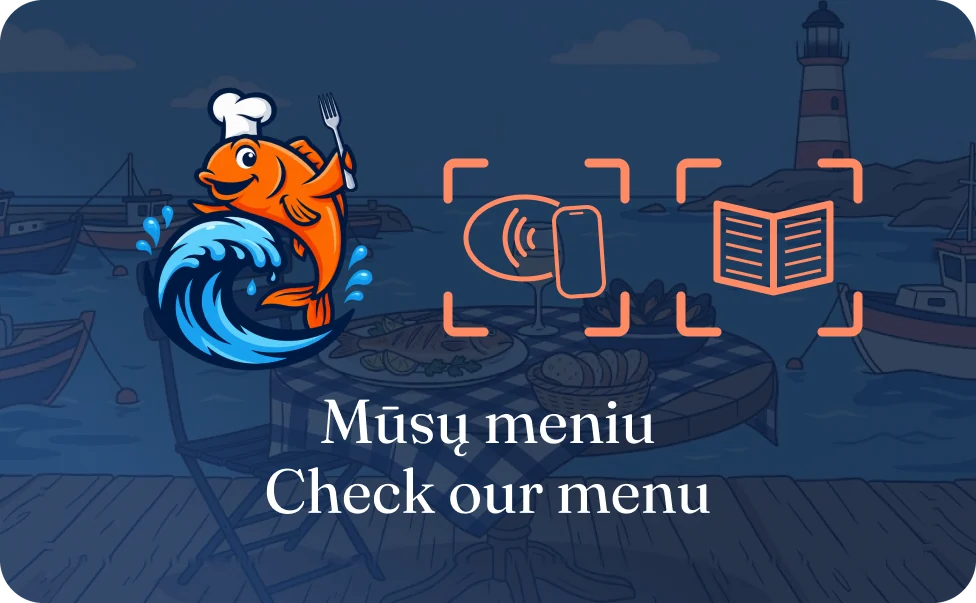
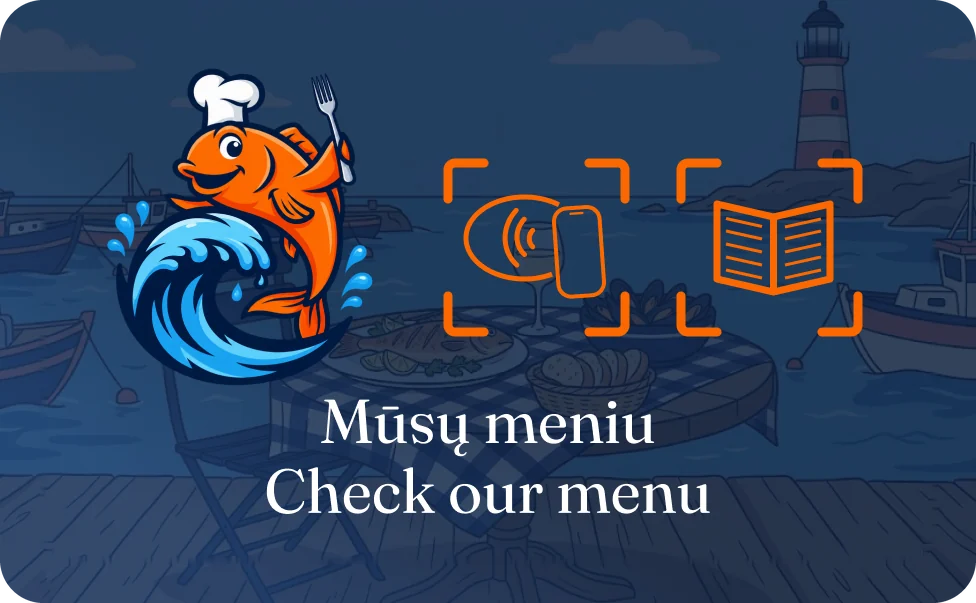
Retoques en los diseños de ejemplo de Gintaro y Bangos

diff --git a/lt/index.html b/lt/index.html
@@ -237,7 +237,7 @@
           <figure class="nfc-card">
             <div class="nfc-card-stage">
               <div class="nfc-card-tilt">
-                <img src="../img/tarjetas/ejemplo-gintaro.webp?v=2026-10-04" alt="Pavyzdinė barberinės „Gintaro“ NFC kortelė: auksinė emblema su inkaru, skustuvu ir brangakmeniu barberinės su iliuminatoriais fone ir užrašas „Palikite mums atsiliepimą“ lietuvių ir anglų kalbomis" width="976" height="603" draggable="false" loading="lazy">
+                <img src="../img/tarjetas/ejemplo-gintaro.webp?v=2026-10-04b" alt="Pavyzdinė barberinės „Gintaro“ NFC kortelė: auksinė emblema su inkaru, skustuvu ir brangakmeniu barberinės su iliuminatoriais fone ir užrašas „Palikite mums atsiliepimą“ lietuvių ir anglų kalbomis" width="976" height="603" draggable="false" loading="lazy">
                 <span class="nfc-card-glare" aria-hidden="true"></span>
               </div>
             </div>
@@ -246,7 +246,7 @@
           <figure class="nfc-card">
             <div class="nfc-card-stage">
               <div class="nfc-card-tilt">
-                <img src="../img/tarjetas/ejemplo-rasos.webp?v=2026-10-04" alt="Pavyzdinė gėlių parduotuvės Rasos NFC kortelė: logotipas su raudona rože ir bordo raidėmis rožinės gėlių parduotuvės fone ir užrašas „Sek mus Instagram’e“ lietuvių ir anglų kalbomis" width="976" height="603" draggable="false" loading="lazy">
+                <img src="../img/tarjetas/ejemplo-rasos.webp?v=2026-10-04b" alt="Pavyzdinė gėlių parduotuvės Rasos NFC kortelė: logotipas su raudona rože ir bordo raidėmis rožinės gėlių parduotuvės fone ir užrašas „Sek mus Instagram’e“ lietuvių ir anglų kalbomis" width="976" height="603" draggable="false" loading="lazy">
                 <span class="nfc-card-glare" aria-hidden="true"></span>
               </div>
             </div>
@@ -255,7 +255,7 @@
           <figure class="nfc-card">
             <div class="nfc-card-stage">
               <div class="nfc-card-tilt">
-                <img src="../img/tarjetas/ejemplo-kopa.webp?v=2026-10-04" alt="Pavyzdinė jogos studijos Kopa NFC kortelė: medituojanti figūra po saule žalsvai mėlyno paplūdimio fone ir užrašas „Sek mus Facebook’e“ lietuvių ir anglų kalbomis" width="976" height="603" draggable="false" loading="lazy">
+                <img src="../img/tarjetas/ejemplo-kopa.webp?v=2026-10-04b" alt="Pavyzdinė jogos studijos Kopa NFC kortelė: medituojanti figūra po saule žalsvai mėlyno paplūdimio fone ir užrašas „Sek mus Facebook’e“ lietuvių ir anglų kalbomis" width="976" height="603" draggable="false" loading="lazy">
                 <span class="nfc-card-glare" aria-hidden="true"></span>
               </div>
             </div>
@@ -264,7 +264,7 @@
           <figure class="nfc-card">
             <div class="nfc-card-stage">
               <div class="nfc-card-tilt">
-                <img src="../img/tarjetas/ejemplo-bangos.webp?v=2026-10-04" alt="Pavyzdinė bistro Bangos NFC kortelė: oranžinė žuvis virėja ant bangos uosto su švyturiu fone ir užrašas „Mūsų meniu“ lietuvių ir anglų kalbomis" width="976" height="603" draggable="false" loading="lazy">
+                <img src="../img/tarjetas/ejemplo-bangos.webp?v=2026-10-04b" alt="Pavyzdinė bistro Bangos NFC kortelė: oranžinė žuvis virėja ant bangos uosto su švyturiu fone ir užrašas „Mūsų meniu“ lietuvių ir anglų kalbomis" width="976" height="603" draggable="false" loading="lazy">
                 <span class="nfc-card-glare" aria-hidden="true"></span>
               </div>
             </div>

diff --git a/index.html b/index.html
@@ -237,7 +237,7 @@
           <figure class="nfc-card">
             <div class="nfc-card-stage">
               <div class="nfc-card-tilt">
-                <img src="img/tarjetas/ejemplo-gintaro.webp?v=2026-10-04" alt="Tarjeta NFC de ejemplo de Gintaro, una barbería: emblema dorado con un ancla, una navaja y una gema sobre una barbería con ojos de buey, y el texto «Déjanos una reseña» en lituano y en inglés" width="976" height="603" draggable="false" loading="lazy">
+                <img src="img/tarjetas/ejemplo-gintaro.webp?v=2026-10-04b" alt="Tarjeta NFC de ejemplo de Gintaro, una barbería: emblema dorado con un ancla, una navaja y una gema sobre una barbería con ojos de buey, y el texto «Déjanos una reseña» en lituano y en inglés" width="976" height="603" draggable="false" loading="lazy">
                 <span class="nfc-card-glare" aria-hidden="true"></span>
               </div>
             </div>
@@ -246,7 +246,7 @@
           <figure class="nfc-card">
             <div class="nfc-card-stage">
               <div class="nfc-card-tilt">
-                <img src="img/tarjetas/ejemplo-rasos.webp?v=2026-10-04" alt="Tarjeta NFC de ejemplo de Rasos, una floristería: logo con una rosa roja y letras granate sobre una tienda de flores en tonos rosa, y el texto «Síguenos en Instagram» en lituano y en inglés" width="976" height="603" draggable="false" loading="lazy">
+                <img src="img/tarjetas/ejemplo-rasos.webp?v=2026-10-04b" alt="Tarjeta NFC de ejemplo de Rasos, una floristería: logo con una rosa roja y letras granate sobre una tienda de flores en tonos rosa, y el texto «Síguenos en Instagram» en lituano y en inglés" width="976" height="603" draggable="false" loading="lazy">
                 <span class="nfc-card-glare" aria-hidden="true"></span>
               </div>
             </div>
@@ -255,7 +255,7 @@
           <figure class="nfc-card">
             <div class="nfc-card-stage">
               <div class="nfc-card-tilt">
-                <img src="img/tarjetas/ejemplo-kopa.webp?v=2026-10-04" alt="Tarjeta NFC de ejemplo de Kopa, un estudio de yoga: figura meditando bajo un sol sobre una playa en tonos verde agua, y el texto «Síguenos en Facebook» en lituano y en inglés" width="976" height="603" draggable="false" loading="lazy">
+                <img src="img/tarjetas/ejemplo-kopa.webp?v=2026-10-04b" alt="Tarjeta NFC de ejemplo de Kopa, un estudio de yoga: figura meditando bajo un sol sobre una playa en tonos verde agua, y el texto «Síguenos en Facebook» en lituano y en inglés" width="976" height="603" draggable="false" loading="lazy">
                 <span class="nfc-card-glare" aria-hidden="true"></span>
               </div>
             </div>
@@ -264,7 +264,7 @@
           <figure class="nfc-card">
             <div class="nfc-card-stage">
               <div class="nfc-card-tilt">
-                <img src="img/tarjetas/ejemplo-bangos.webp?v=2026-10-04" alt="Tarjeta NFC de ejemplo de Bangos, un bistró: pez cocinero naranja sobre una ola frente a un puerto con faro, y el texto «Mira nuestra carta» en lituano y en inglés" width="976" height="603" draggable="false" loading="lazy">
+                <img src="img/tarjetas/ejemplo-bangos.webp?v=2026-10-04b" alt="Tarjeta NFC de ejemplo de Bangos, un bistró: pez cocinero naranja sobre una ola frente a un puerto con faro, y el texto «Mira nuestra carta» en lituano y en inglés" width="976" height="603" draggable="false" loading="lazy">
                 <span class="nfc-card-glare" aria-hidden="true"></span>
               </div>
             </div>

diff --git a/en/index.html b/en/index.html
@@ -237,7 +237,7 @@
           <figure class="nfc-card">
             <div class="nfc-card-stage">
               <div class="nfc-card-tilt">
-                <img src="../img/tarjetas/ejemplo-gintaro.webp?v=2026-10-04" alt="Example NFC card for Gintaro, a barber’s: gold emblem with an anchor, a razor and a gem over a barbershop with portholes, and the text “Leave us a review” in Lithuanian and English" width="976" height="603" draggable="false" loading="lazy">
+                <img src="../img/tarjetas/ejemplo-gintaro.webp?v=2026-10-04b" alt="Example NFC card for Gintaro, a barber’s: gold emblem with an anchor, a razor and a gem over a barbershop with portholes, and the text “Leave us a review” in Lithuanian and English" width="976" height="603" draggable="false" loading="lazy">
                 <span class="nfc-card-glare" aria-hidden="true"></span>
               </div>
             </div>
@@ -246,7 +246,7 @@
           <figure class="nfc-card">
             <div class="nfc-card-stage">
               <div class="nfc-card-tilt">
-                <img src="../img/tarjetas/ejemplo-rasos.webp?v=2026-10-04" alt="Example NFC card for Rasos, a flower shop: logo with a red rose and burgundy lettering over a pink flower shop, and the text “Follow us on Instagram” in Lithuanian and English" width="976" height="603" draggable="false" loading="lazy">
+                <img src="../img/tarjetas/ejemplo-rasos.webp?v=2026-10-04b" alt="Example NFC card for Rasos, a flower shop: logo with a red rose and burgundy lettering over a pink flower shop, and the text “Follow us on Instagram” in Lithuanian and English" width="976" height="603" draggable="false" loading="lazy">
                 <span class="nfc-card-glare" aria-hidden="true"></span>
               </div>
             </div>
@@ -255,7 +255,7 @@
           <figure class="nfc-card">
             <div class="nfc-card-stage">
               <div class="nfc-card-tilt">
-                <img src="../img/tarjetas/ejemplo-kopa.webp?v=2026-10-04" alt="Example NFC card for Kopa, a yoga studio: meditating figure under a sun over an aqua beach, and the text “Follow us on Facebook” in Lithuanian and English" width="976" height="603" draggable="false" loading="lazy">
+                <img src="../img/tarjetas/ejemplo-kopa.webp?v=2026-10-04b" alt="Example NFC card for Kopa, a yoga studio: meditating figure under a sun over an aqua beach, and the text “Follow us on Facebook” in Lithuanian and English" width="976" height="603" draggable="false" loading="lazy">
                 <span class="nfc-card-glare" aria-hidden="true"></span>
               </div>
             </div>
@@ -264,7 +264,7 @@
           <figure class="nfc-card">
             <div class="nfc-card-stage">
               <div class="nfc-card-tilt">
-                <img src="../img/tarjetas/ejemplo-bangos.webp?v=2026-10-04" alt="Example NFC card for Bangos, a bistro: orange chef fish on a wave in front of a harbour with a lighthouse, and the text “See our menu” in Lithuanian and English" width="976" height="603" draggable="false" loading="lazy">
+                <img src="../img/tarjetas/ejemplo-bangos.webp?v=2026-10-04b" alt="Example NFC card for Bangos, a bistro: orange chef fish on a wave in front of a harbour with a lighthouse, and the text “See our menu” in Lithuanian and English" width="976" height="603" draggable="false" loading="lazy">
                 <span class="nfc-card-glare" aria-hidden="true"></span>
               </div>
             </div>
